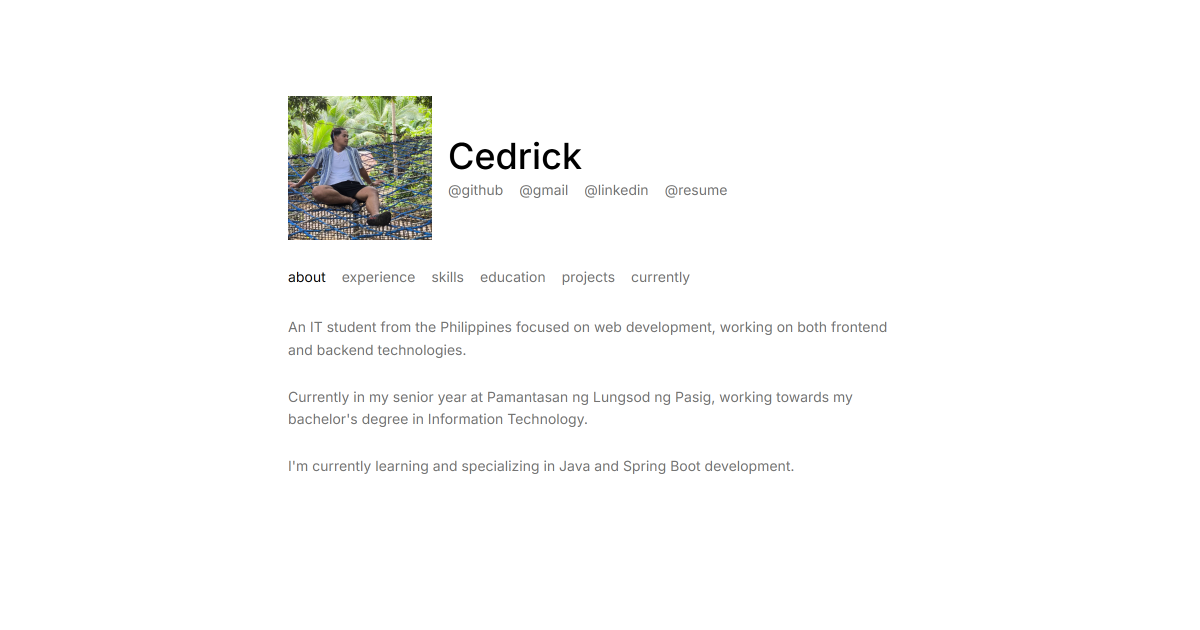
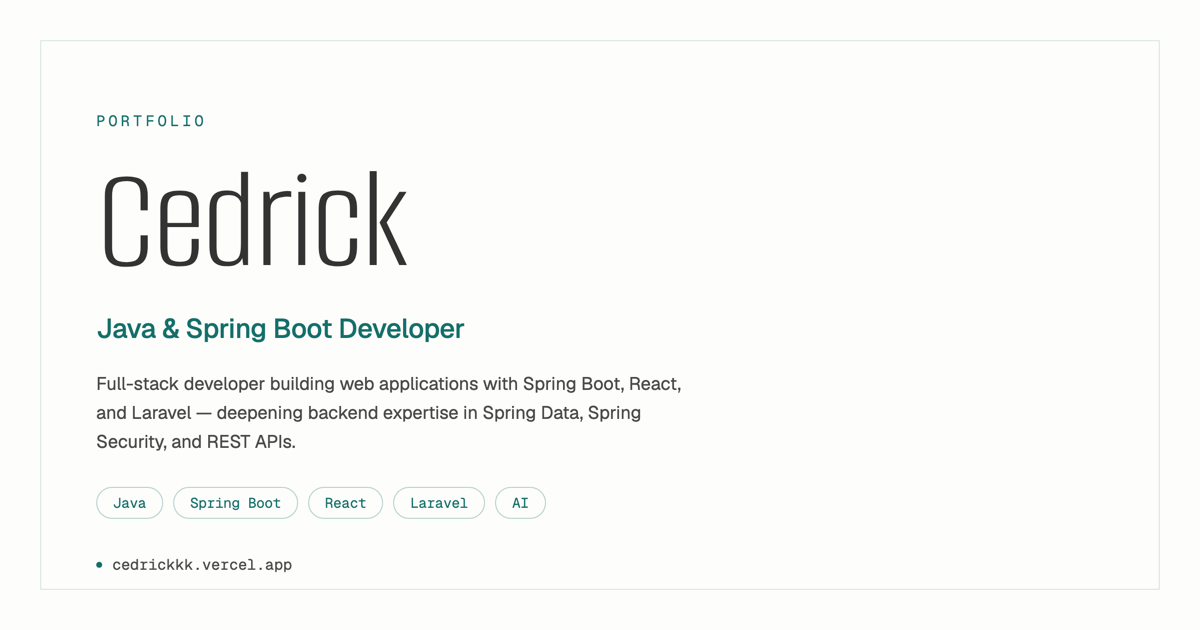
feat: enhance SEO and social sharing with structured data and meta tags

diff --git a/src/lib/seo.ts b/src/lib/seo.ts
@@ -1,10 +1,27 @@
 export const siteConfig = {
   name: "John Cedric Panti",
+  shortName: "Cedrickkk",
   title: "Cedrickkk - Java & Spring Boot Developer",
   description:
     "Full-stack developer specializing in Java, JavaScript, and PHP. Building web applications with Spring Boot, React, and Laravel. Currently deepening expertise in backend development with Spring Data, Spring Security, and REST APIs.",
   url: "https://cedrickkk.vercel.app",
   ogImage: "/og.png",
+  ogImageAlt: "John Cedric Panti (Cedrickkk) — Java & Spring Boot Developer",
+  ogImageWidth: 1200,
+  ogImageHeight: 630,
+  locale: "en_US",
+  twitterHandle: "",
+  keywords: [
+    "John Cedric Panti",
+    "Cedrickkk",
+    "Java Developer",
+    "Spring Boot Developer",
+    "Full-stack Developer",
+    "React Developer",
+    "Laravel Developer",
+    "Backend Developer Philippines",
+    "Software Developer Portfolio",
+  ],
 };
 
 type PageSeo = {
